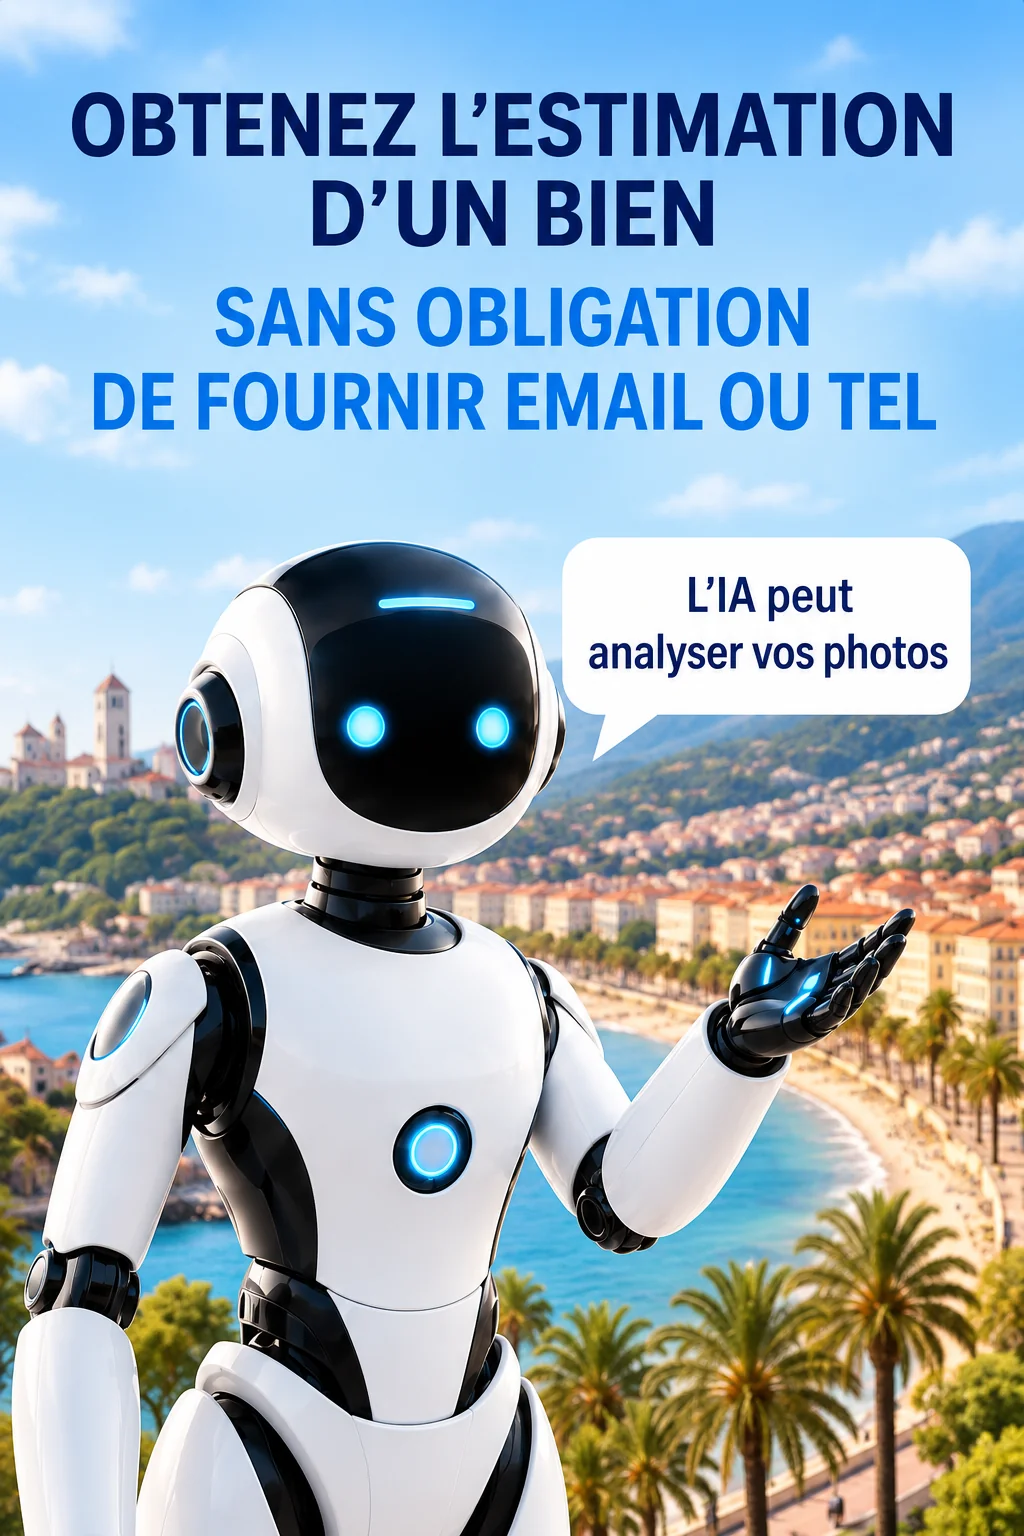
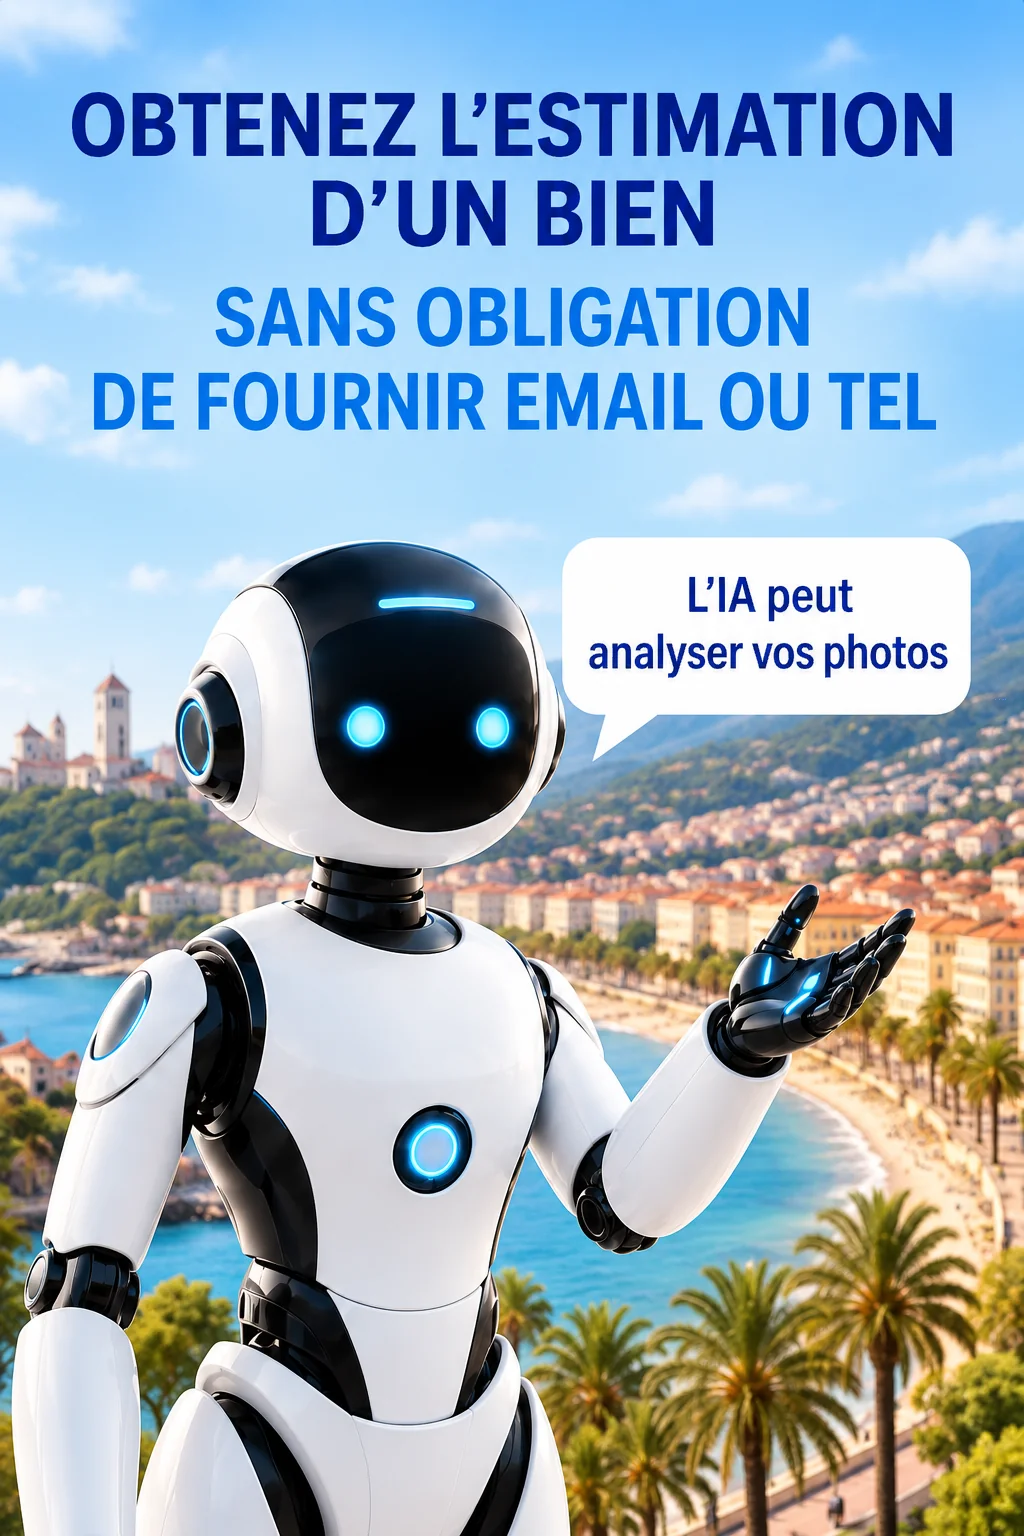
Add files via upload

Changed region(s): [[0.0625, 0.0625, 0.9375, 0.1875], [0.5625, 0.375, 0.9375, 0.4375]]

diff --git a/index.html b/index.html
@@ -56,7 +56,7 @@ header.top{border-bottom:1px solid var(--color-divider)}
 header.top .wrap{display:grid;grid-template-columns:1fr auto;align-items:center;gap:24px;padding-top:20px;padding-bottom:20px}
 header.top .brand{justify-self:start}
 header.top nav.menu{justify-self:end}
-.brand{font-family:var(--font-heading);font-size:38px;font-weight:600;line-height:1;letter-spacing:.5px;color:#12126B}
+.brand{font-family:var(--font-heading);font-size:38px;font-weight:600;line-height:1;letter-spacing:.5px;color:#14309E}
 .brand span{color:#3FA3EF}
 nav.menu{display:flex;align-items:center;gap:28px;font-size:13px;letter-spacing:.12em;text-transform:uppercase;font-weight:600}
 nav.menu a[aria-current]{color:var(--color-accent-700);border-bottom:1px solid var(--color-accent)}
@@ -647,11 +647,13 @@ if(ev.key==='Enter'&&!ev.shiftKey){ev.preventDefault();document.getElementById('
 function ajusteScene(){
 var sc=document.querySelector('.scene');
 var br=document.querySelector('.brand');
-if(window.innerWidth<981){sc.style.height='';if(br)br.style.transform='';document.querySelector('.partner').style.gridTemplateColumns='';}
+if(window.innerWidth<981){sc.style.height='';sc.style.columnGap='';if(br)br.style.transform='';document.querySelector('.partner').style.gridTemplateColumns='';}
 else{
 var top=sc.getBoundingClientRect().top+window.scrollY;
 var bas=document.querySelector('.partner').offsetHeight+document.querySelector('footer.bottom').offsetHeight+18;
 sc.style.height=Math.max(380,window.innerHeight-top-bas)+'px';
+/* espace robot→carte = espace filet du header→robot */
+sc.style.columnGap=Math.max(8,Math.round(document.querySelector('.plate').getBoundingClientRect().top-document.querySelector('header.top').getBoundingClientRect().bottom))+'px';
 /* logo centré sur la colonne du robot */
 if(br){br.style.transform='';
 var pr=document.querySelector('.plate').getBoundingClientRect(),bb=br.getBoundingClientRect();
